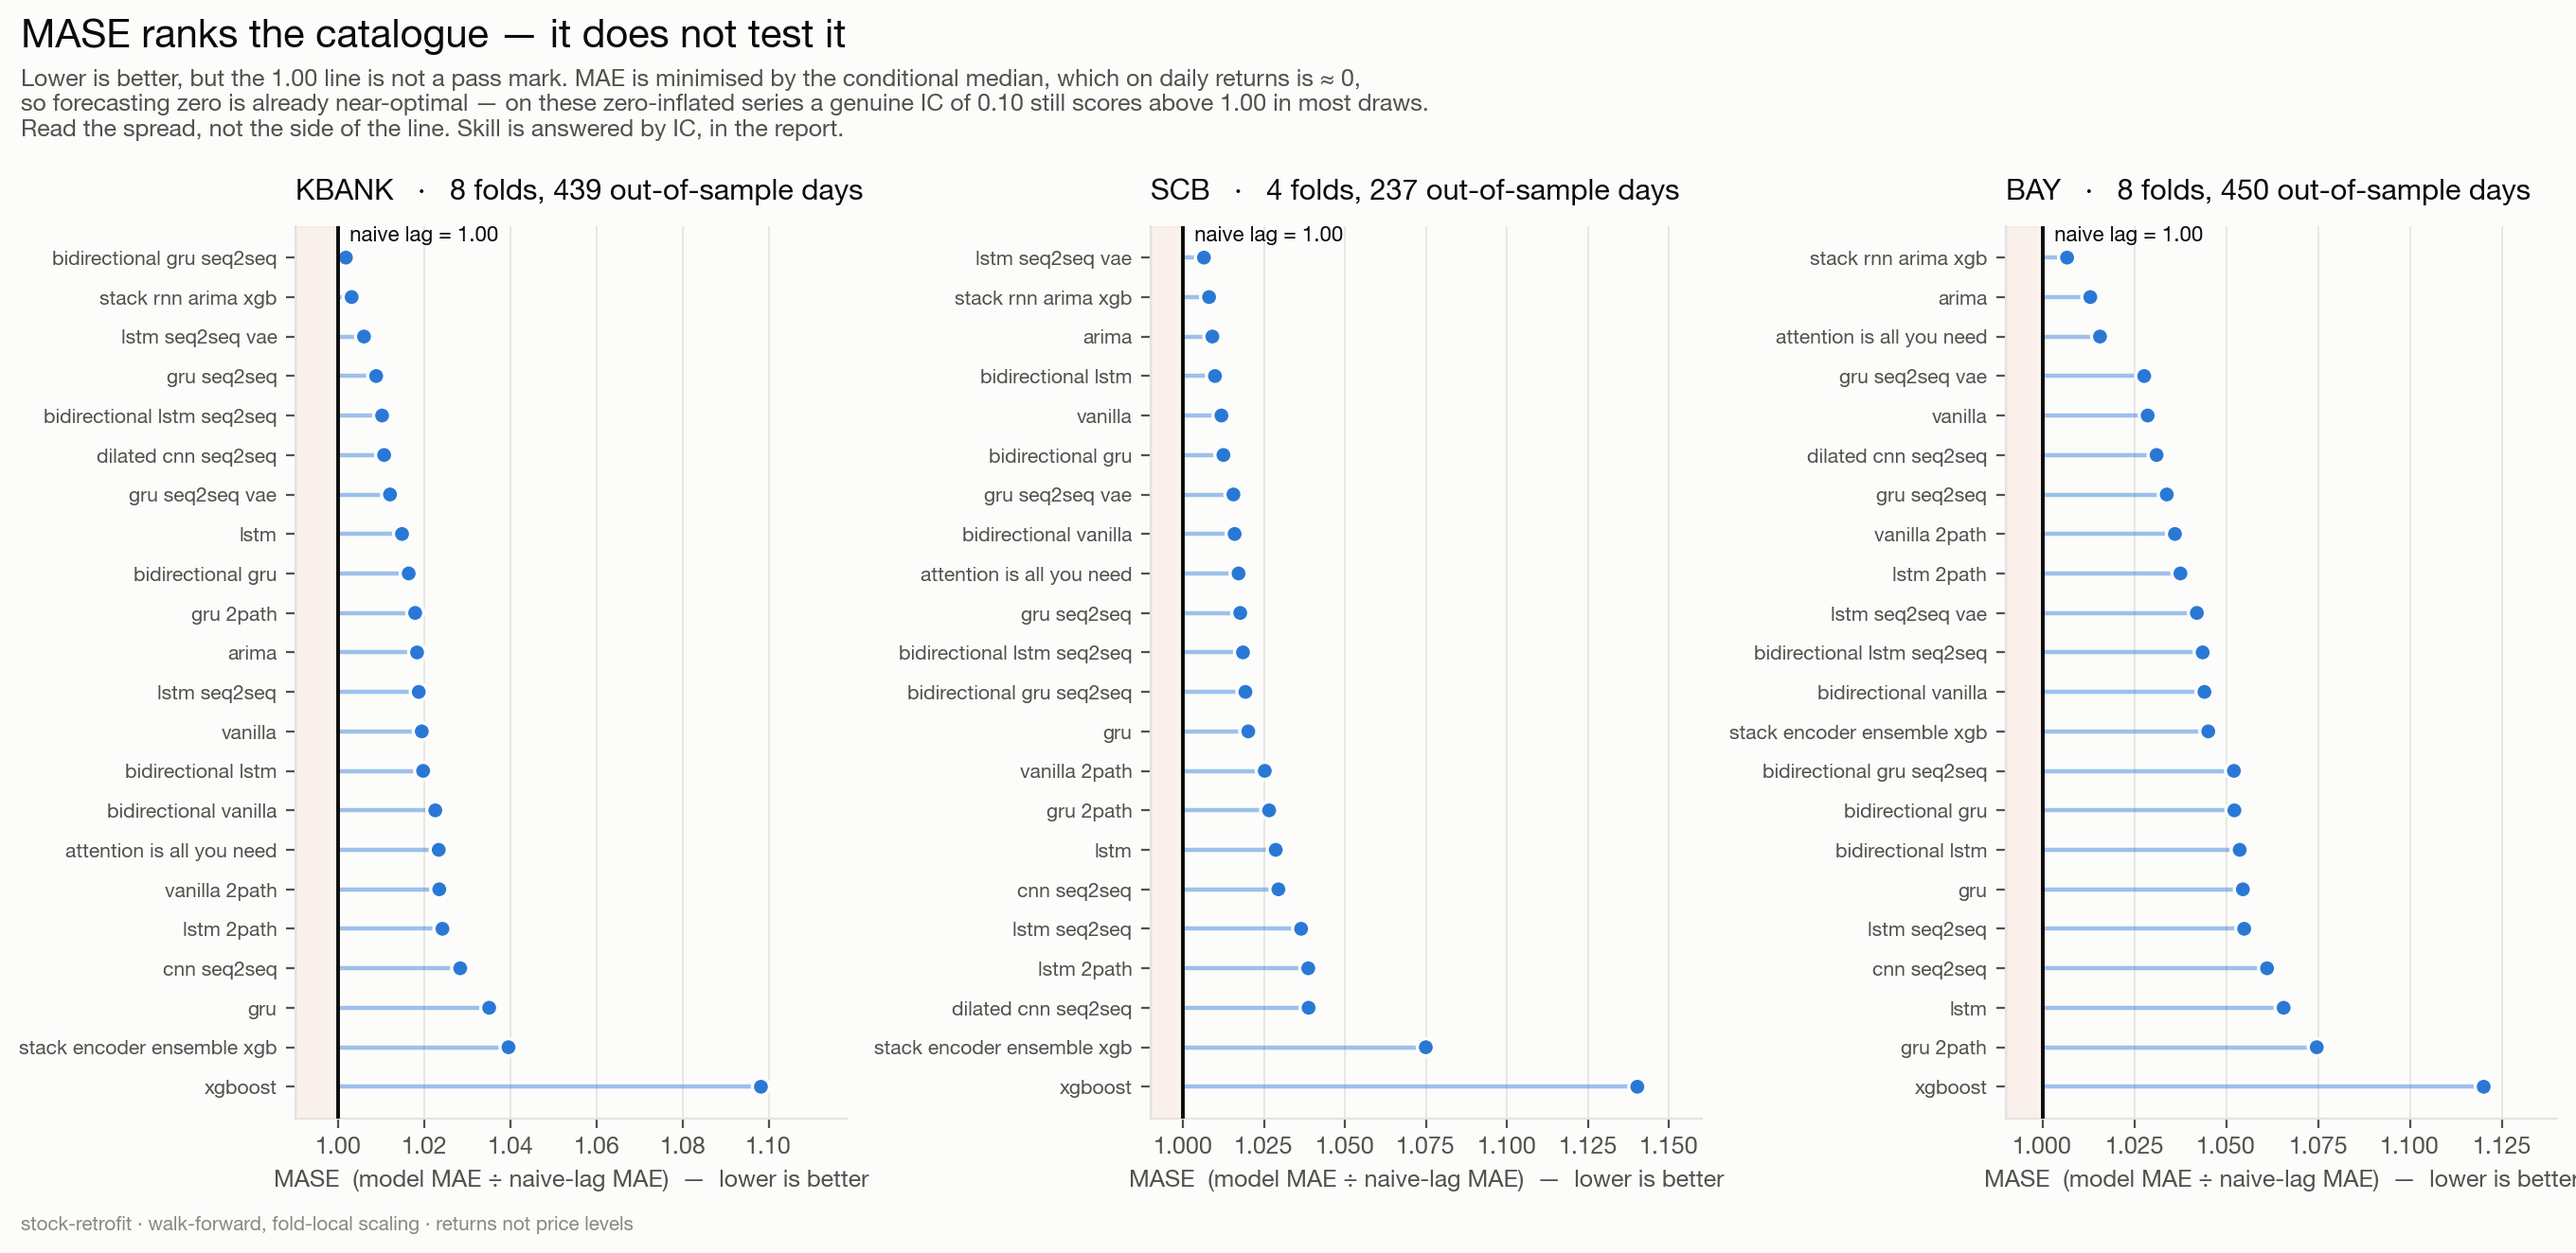
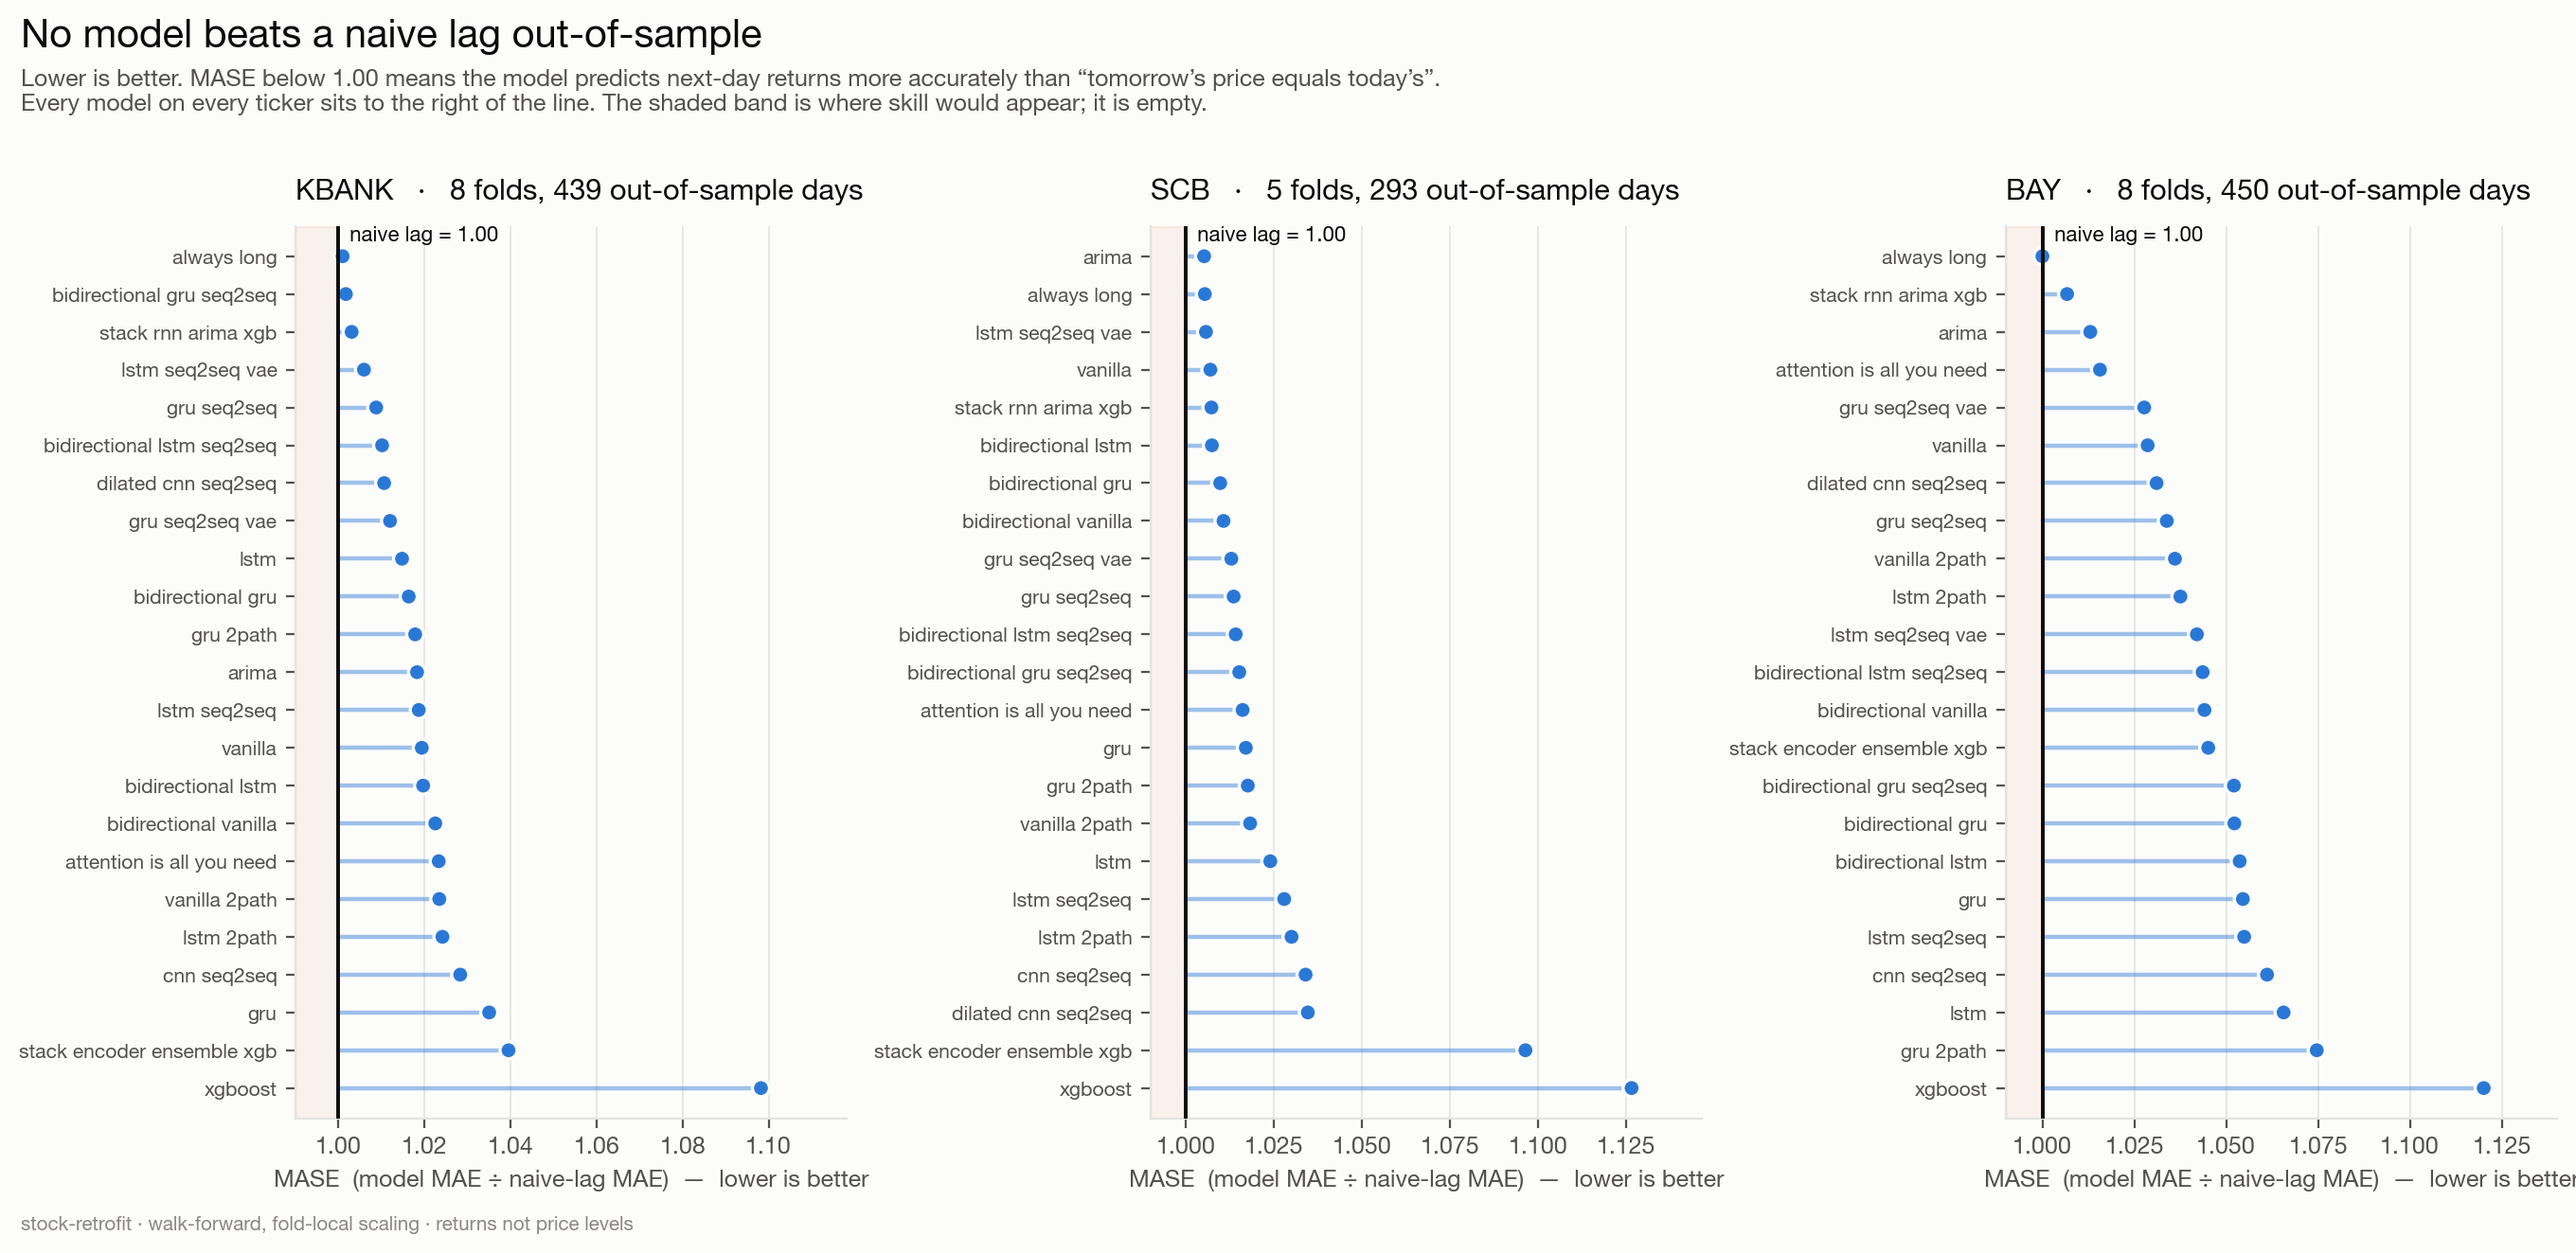
#11 update model figure on Aug 21,2026 data

diff --git a/results/final-report.md b/results/final-report.md
@@ -1,6 +1,6 @@
 # stock-retrofit — results
 
-Generated 2026-08-14 09:03 UTC · git `94c83f63b35ac57337dc240f298bc14fb16d7e84-dirty` · seed 42
+Generated 2026-08-21 03:14 UTC · git `1d2f20c4d3256423db2f3b79a19dac8b8bba9624` · seed 42
 
 Walk-forward evaluation of the [huseinzol05/Stock-Prediction-Models](https://github.com/huseinzol05/Stock-Prediction-Models) catalogue on Thai SET bank shares, on a harness that does not leak and a backtest that charges SET trading costs.
 
@@ -32,18 +32,18 @@ Rendered by `notebooks/07_figures.ipynb` — one figure per cell.
 
 **KBANK** — Kasikornbank PCL
   - liquidity: Large cap, liquid, no known discontinuity. The clean case.
-  - 6594 bars 2000-01-04 → 2026-08-13, source `yfinance`, hash `65593b0d9856`, 0 repaired field(s)
+  - 6599 bars 2000-01-04 → 2026-08-20, source `yfinance`, hash `634a85724e19`, 0 repaired field(s)
 
 **SCB** — SCB X PCL (formerly The Siam Commercial Bank PCL)
   - liquidity: Large cap, liquid. Series carries an issuer substitution at 2022-04-22.
   - break 2022-04-22 [issuer_substitution]: SCB delisted and SCB X PCL listed 1:1 in its place, retaining the SCB ticker. A change of issuer (bank -> holding company), not merely of name. Pre-2022-04-22 'SCB' bars belong to a different legal entity.
   - source: SCB/SCBX first-party announcements, March-April 2022
-  - 1047 bars 2022-04-20 → 2026-08-13, source `yfinance`, hash `80cd33cbe28b`, 0 repaired field(s)
+  - 1052 bars 2022-04-20 → 2026-08-20, source `yfinance`, hash `45ff5849b93d`, 0 repaired field(s)
 
 **BAY** — Bank of Ayudhya PCL (Krungsri)
   - liquidity: Thin float: ~72-76% held by MUFG since the 2013 acquisition. Daily turnover is small relative to SCB/KBANK. Treat as the liquidity stress case and cap participation in any backtest.
   - default participation cap: 5.0% of volume
-  - 6594 bars 2000-01-04 → 2026-08-13, source `yfinance`, hash `f40091c34855`, 0 repaired field(s)
+  - 6599 bars 2000-01-04 → 2026-08-20, source `yfinance`, hash `2f998fce1fec`, 0 repaired field(s)
 
 ## KBANK
 
@@ -121,34 +121,34 @@ Buy-and-hold returned **+7.82%** per fold after costs on KBANK. **0 of 23 active
 
 | model | IC | t | MASE | dir acc | RMSE(ret) | Sharpe net | Sharpe gross |
 |---|---|---|---|---|---|---|---|
-| 00_naive_lag | — | — | 1.0000 | — | 0.01011 | +0.00 | +0.00 |
-| 00_always_long | -0.094 | -1.4 | 1.0059 | 53.7% | 0.01011 | +0.94 | +0.97 |
-| 12_lstm_seq2seq_vae | +0.012 | +0.2 | 1.0065 | 52.2% | 0.01010 | +0.76 | +0.83 |
-| 19_stack_rnn_arima_xgb | -0.116 | -1.8 | 1.0081 | 53.7% | 0.01012 | +0.94 | +0.97 |
-| 21_arima | -0.005 | -0.1 | 1.0091 | 55.2% | 0.01015 | -0.54 | +1.23 |
-| 02_bidirectional_lstm | -0.015 | -0.2 | 1.0099 | 52.2% | 0.01013 | -0.25 | +0.73 |
-| 07_vanilla | -0.029 | -0.4 | 1.0119 | 53.2% | 0.01015 | -0.62 | +0.96 |
-| 05_bidirectional_gru | -0.019 | -0.3 | 1.0125 | 51.2% | 0.01017 | -0.79 | +0.53 |
-| 15_gru_seq2seq_vae | -0.046 | -0.7 | 1.0156 | 43.8% | 0.01015 | -0.64 | -0.35 |
-| 08_bidirectional_vanilla | -0.071 | -1.1 | 1.0160 | 51.7% | 0.01022 | -0.90 | +0.96 |
-| 16_attention_is_all_you_need | -0.047 | -0.7 | 1.0172 | 54.2% | 0.01023 | +0.47 | +0.90 |
-| 13_gru_seq2seq | -0.064 | -1.0 | 1.0177 | 53.2% | 0.01019 | -0.02 | +0.67 |
-| 11_bidirectional_lstm_seq2seq | -0.047 | -0.7 | 1.0185 | 48.8% | 0.01019 | -0.44 | +0.54 |
-| 14_bidirectional_gru_seq2seq | -0.036 | -0.5 | 1.0193 | 50.7% | 0.01018 | -0.61 | +0.73 |
-| 04_gru | -0.013 | -0.2 | 1.0202 | 50.2% | 0.01024 | -0.09 | +0.51 |
-| 09_vanilla_2path | -0.102 | -1.6 | 1.0253 | 50.2% | 0.01029 | -0.94 | +0.63 |
-| 06_gru_2path | -0.046 | -0.7 | 1.0266 | 50.2% | 0.01030 | -0.60 | +0.26 |
-| 01_lstm | -0.066 | -1.0 | 1.0286 | 46.8% | 0.01024 | -0.51 | +0.05 |
-| 17_cnn_seq2seq | -0.055 | -0.8 | 1.0295 | 50.2% | 0.01041 | -1.72 | +0.48 |
-| 10_lstm_seq2seq | +0.032 | +0.5 | 1.0365 | 50.7% | 0.01020 | -0.03 | +0.50 |
-| 03_lstm_2path | -0.026 | -0.4 | 1.0387 | 54.2% | 0.01038 | -0.03 | +0.97 |
-| 18_dilated_cnn_seq2seq | +0.007 | +0.1 | 1.0388 | 47.3% | 0.01034 | -2.31 | +0.19 |
-| 20_stack_encoder_ensemble_xgb | -0.023 | -0.4 | 1.0750 | 51.2% | 0.01056 | -2.14 | +0.65 |
-| 22_xgboost | -0.066 | -1.0 | 1.1403 | 49.8% | 0.01129 | -2.55 | +0.27 |
+| 00_naive_lag | — | — | 1.0000 | — | 0.01052 | +0.00 | +0.00 |
+| 00_always_long | -0.067 | -1.1 | 1.0054 | 53.8% | 0.01051 | +1.33 | +1.35 |
+| 21_arima | +0.010 | +0.2 | 1.0052 | 57.0% | 0.01053 | -0.10 | +1.74 |
+| 12_lstm_seq2seq_vae | +0.001 | +0.0 | 1.0057 | 52.6% | 0.01050 | +1.20 | +1.26 |
+| 07_vanilla | -0.029 | -0.5 | 1.0070 | 53.4% | 0.01055 | -0.54 | +0.99 |
+| 19_stack_rnn_arima_xgb | -0.091 | -1.6 | 1.0073 | 53.8% | 0.01051 | +1.33 | +1.35 |
+| 02_bidirectional_lstm | -0.008 | -0.1 | 1.0074 | 52.6% | 0.01052 | +0.46 | +1.21 |
+| 05_bidirectional_gru | -0.024 | -0.4 | 1.0098 | 52.2% | 0.01056 | -0.08 | +1.07 |
+| 08_bidirectional_vanilla | -0.067 | -1.1 | 1.0107 | 53.0% | 0.01063 | -0.75 | +1.12 |
+| 15_gru_seq2seq_vae | -0.025 | -0.4 | 1.0129 | 45.8% | 0.01054 | +0.19 | +0.41 |
+| 13_gru_seq2seq | -0.049 | -0.8 | 1.0136 | 53.4% | 0.01056 | +0.60 | +1.16 |
+| 11_bidirectional_lstm_seq2seq | -0.050 | -0.8 | 1.0142 | 50.6% | 0.01057 | +0.41 | +1.24 |
+| 14_bidirectional_gru_seq2seq | -0.039 | -0.7 | 1.0152 | 52.2% | 0.01057 | +0.08 | +1.27 |
+| 16_attention_is_all_you_need | -0.054 | -0.9 | 1.0161 | 53.8% | 0.01066 | +0.66 | +1.15 |
+| 04_gru | -0.027 | -0.5 | 1.0170 | 49.4% | 0.01063 | -0.27 | +0.33 |
+| 06_gru_2path | -0.035 | -0.6 | 1.0176 | 52.2% | 0.01067 | -0.28 | +0.78 |
+| 09_vanilla_2path | -0.085 | -1.5 | 1.0182 | 51.8% | 0.01067 | -0.68 | +0.95 |
+| 01_lstm | -0.073 | -1.2 | 1.0240 | 46.6% | 0.01064 | -0.48 | +0.05 |
+| 10_lstm_seq2seq | +0.020 | +0.3 | 1.0279 | 51.4% | 0.01059 | +0.20 | +0.83 |
+| 03_lstm_2path | -0.022 | -0.4 | 1.0300 | 54.2% | 0.01072 | +0.51 | +1.37 |
+| 17_cnn_seq2seq | -0.070 | -1.2 | 1.0340 | 49.4% | 0.01084 | -1.59 | +0.68 |
+| 18_dilated_cnn_seq2seq | +0.007 | +0.1 | 1.0346 | 48.6% | 0.01070 | -1.65 | +0.72 |
+| 20_stack_encoder_ensemble_xgb | -0.139 | -2.4 | 1.0963 | 51.0% | 0.01144 | -1.75 | +0.84 |
+| 22_xgboost | -0.076 | -1.3 | 1.1264 | 48.6% | 0.01162 | -2.64 | +0.32 |
 
-**Mean IC -0.038 over 22 models on SCB; 3 of 22 positive.** 0 clear |t| > 1.96, against 1 expected by chance.
+**Mean IC -0.042 over 22 models on SCB; 4 of 22 positive.** 1 clear |t| > 1.96, against 1 expected by chance: 20_stack_encoder_ensemble_xgb.
 
-Holding SCB scored a net Sharpe of **+0.94** over the same blocks. **0 of 22 models beat it.**
+Holding SCB scored a net Sharpe of **+1.33** over the same blocks. **0 of 22 models beat it.**
 
 ### Agents — frictionless vs. SET frictions
 
@@ -261,11 +261,11 @@ Buy-and-hold returned **+10.56%** per fold after costs on BAY. **0 of 23 active 
 
 ## Headline
 
-**Mean out-of-sample IC of +0.009 across 66 model runs on 3 tickers (KBANK, SCB, BAY); 36 of 66 are positive.**
+**Mean out-of-sample IC of +0.008 across 66 model runs on 3 tickers (KBANK, SCB, BAY); 37 of 66 are positive.**
 
 A coin flip would put half of them above zero. That is what a catalogue with no forecasting skill on this universe looks like, and it is the result the spec anticipated as legitimate and likely.
 
-Two supporting facts, both pointing the same way. 5 runs clear |t| > 1.96 against roughly 3 expected by chance alone — and those runs are not independent draws, since all 22 architectures read the same five features. And 0 of 66 beat simply holding the share, which is the comparison that decides whether any of this was worth running.
+Two supporting facts, both pointing the same way. 6 runs clear |t| > 1.96 against roughly 3 expected by chance alone — and those runs are not independent draws, since all 22 architectures read the same five features. And 0 of 66 beat simply holding the share, which is the comparison that decides whether any of this was worth running.
 
 The upstream repository reports accuracies in the high nineties for the same architectures. Both things are true at once, and the reason is methodological, not architectural: upstream fits its scaler on the full series before splitting, scores price levels rather than returns, and shows no baseline. On price levels a naive lag also scores in the high nineties — `metrics.upstream_accuracy_do_not_use` and its test demonstrate this. Those numbers never measured skill.
 
